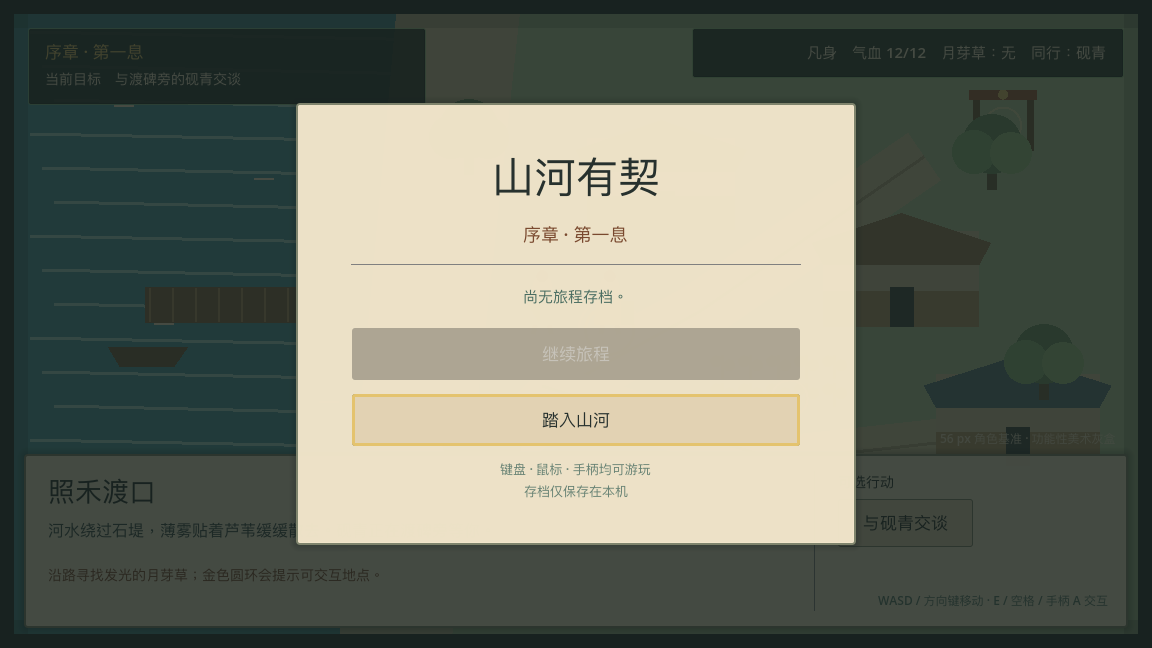
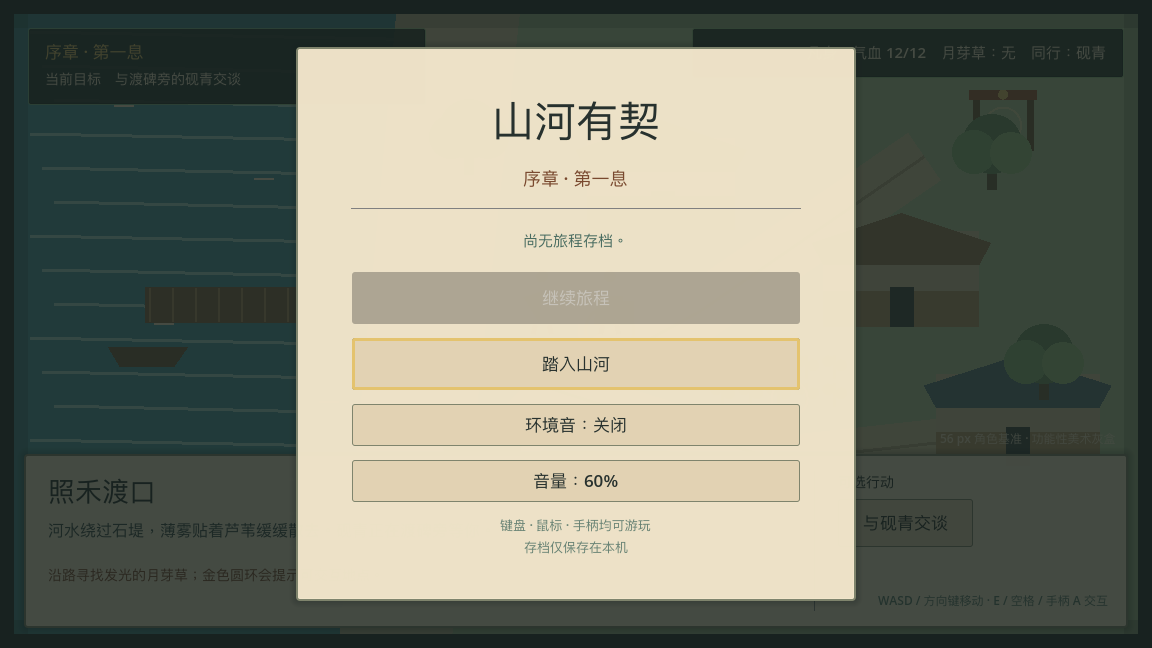
feat: add opt-in procedural ambience

diff --git a/docs/ASSET_PROVENANCE.md b/docs/ASSET_PROVENANCE.md
@@ -11,10 +11,18 @@ The preserved single-player study under `prototypes/journey/` contains:
 No public-use license has been selected for the repository or these assets. They remain under their creators' default copyright. Before any public release, the owner must choose a repository license, verify every dependency and generated-asset term, complete name/trademark clearance, and record any new asset's source, author, date, transformation, and allowed use here.
 
 The Godot RPG graybox under `rpg/` currently uses only project-authored code, text, vector-like
-runtime drawing, and Godot's default theme/font behavior. It commits no third-party art, font,
-music, map, sound, or plugin. Godot 4.7.1 is an external MIT-licensed development/runtime
+runtime drawing, runtime-synthesized ambience, and Godot's default theme/font behavior. It
+commits no third-party art, font, music, map, sound file, or plugin. Godot 4.7.1 is an external MIT-licensed development/runtime
 dependency resolved separately from the repository; its official Linux build is checksum-pinned
 by `scripts/setup_rpg`.
+
+## 2026-08-01 · Godot procedural ferry ambience
+
+`rpg/src/ui/audio_manager.gd` synthesizes a quiet three-frequency waterbank chord directly into
+Godot's `AudioStreamGenerator`. The frequencies, slow amplitude modulation, stereo balance, and
+implementation were authored for this project; no recording, sample, model-generated audio,
+external composition, or third-party sound library is embedded. Playback is opt-in and defaults
+to off. This functional ambience remains a placeholder for the final authored sound direction.
 
 ## 2026-08-01 · RPG style-exploration concept boards
 

diff --git a/docs/DECISIONS.md b/docs/DECISIONS.md
@@ -36,6 +36,14 @@ stays at the marker until the player receives the risk and retreat briefing, the
 exploration. Quest guidance advances from briefing to herb preparation to the spring gate. This
 uses the same proximity and semantic-action path as every other world interaction.
 
+### 2026-08-01 — Opt-in procedural ambience
+
+The functional slice defaults to silence. A player may enable project-authored ambience and
+choose 35%, 60%, or 100% volume from either title or pause UI. GDScript synthesizes the placeholder
+sound at runtime through `AudioStreamGenerator`, so no third-party or generated sound asset enters
+the repository. Versioned settings are stored separately from journey progress; invalid settings
+fall back to silence without affecting the save game.
+
 ### 2026-08-01 — Recoverable first-combat failure
 
 The first combat teaches preparation without creating a hard fail state. The player may retreat

diff --git a/rpg/README.md b/rpg/README.md
@@ -14,6 +14,10 @@ make test-rpg-e2e
 移动时自动保存；按 `Esc` 或手柄 Start 可暂停、保存并返回标题。损坏或未知版本
 的存档不会被静默载入，主文件写入失败时可从安全备份恢复。
 
+环境音默认关闭，可在标题或暂停菜单中开启并循环选择 35%/60%/100% 音量。声音
+由项目 GDScript 在运行时合成，不下载或嵌入第三方音频；偏好独立保存在本机，
+损坏设置会安全回落为静音与 60% 音量，不影响旅程存档。
+
 当前功能性美术灰盒采用明亮的全屏 RPG 镜头，并以 56 px 作为第一轮角色比例
 基准。在照禾渡口使用 `WASD` 或方向键移动，靠近金色交互圈后按 `E`、空格或
 手柄 A；也可以点击右侧出现的行动。河水、地图边缘和房屋具有确定性碰撞，必须

diff --git a/docs/TESTING.md b/docs/TESTING.md
@@ -5,7 +5,7 @@
 | Boundary | Gate | Current result |
 | --- | --- | --- |
 | Deterministic cultivation rules | pytest + branch coverage, minimum 99% | 50 tests; 100% statements and branches |
-| Godot RPG rules and scenes | headless GDScript harness | 165 assertions passing |
+| Godot RPG rules and scenes | headless GDScript harness | 185 assertions passing |
 | Godot RPG chapter path | independent headless E2E | 16 checks: briefing → exploration → retreat → battle → breakthrough → resume → replay |
 | Evennia commands and world bootstrap | Evennia isolated database harness | command, localization, and bootstrap integration tests passing |
 | Multiplayer release path | real server, two real Telnet clients | 中文注册 → 登录 → 采药 → 修炼 → 协作 → 突破 → 重连持久化 |

diff --git a/README.md b/README.md
@@ -71,7 +71,7 @@ make test-multiplayer-e2e    # live server + real two-client journey only
 ```
 
 The deterministic multiplayer domain rules have an enforced 99% statement/branch minimum and
-currently reach 100%. Godot behavior is covered by 165 headless rule/scene assertions plus an
+currently reach 100%. Godot behavior is covered by 185 headless rule/scene assertions plus an
 independent 16-check chapter E2E. The MUD adapter has isolated Evennia tests, and its release path
 is exercised through two real concurrent Telnet clients. The preserved browser prototype retains
 its own 100% unit result and 53-execution Playwright matrix. See [testing](docs/TESTING.md),

diff --git a/docs/PROJECT_CONTEXT.md b/docs/PROJECT_CONTEXT.md
@@ -132,7 +132,7 @@ Expand the executable RPG graybox into a complete 90-minute original chapter:
 6. an active chapter companion (first aid implemented) and one deployable tactical slot;
 7. versioned save/load, title/continue, and safe backup recovery (implemented; chapter replay remains);
 8. mouse, keyboard, and controller parity;
-9. original visual/audio direction with recorded provenance;
+9. original visual direction and opt-in procedural ambience with recorded provenance (functional implementation complete; final assets remain);
 10. new-game-to-ending-to-save-resume-to-replay automated Godot acceptance path (implemented).
 
 ## Open decisions

diff --git a/docs/concepts/gameplay-ui-v1/README.md b/docs/concepts/gameplay-ui-v1/README.md
@@ -25,7 +25,8 @@ make capture-rpg-ui
 ![中文标题与继续游戏界面](01-title-screen.png)
 
 启动先进入中文标题界面，本地存在合法版本化存档时才允许继续；键盘、鼠标和
-手柄共享焦点与确认动作，存档异常会保留原文件并显示原因。
+手柄共享焦点与确认动作，存档异常会保留原文件并显示原因。原创程序化环境音
+默认关闭，环境音开关和三级音量在标题与暂停界面保持同步并保存到本机。
 
 ![照禾渡口功能性游戏镜头](01-zhaohe-ferry.png)
 
